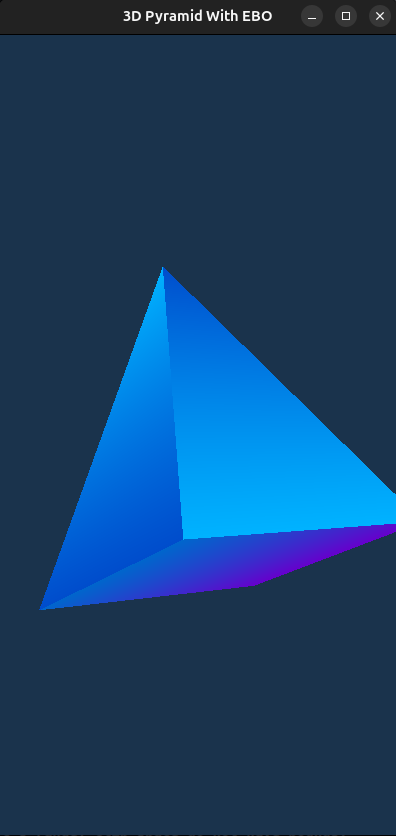
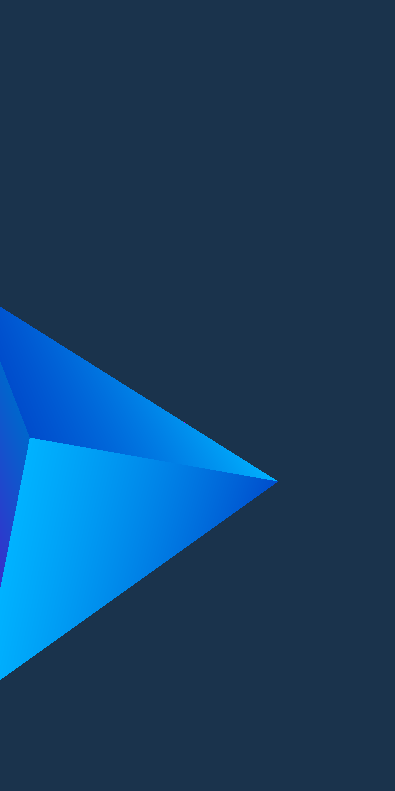
Adds info with rotation examples

diff --git a/Lessons/Lesson_5__GoingTo3D/main.cpp b/Lessons/Lesson_5__GoingTo3D/main.cpp
@@ -162,7 +162,7 @@ int main()
     glfwWindowHint(GLFW_CONTEXT_VERSION_MINOR, OPENGL_MINOR_VERSION);
     glfwWindowHint(GLFW_OPENGL_PROFILE, GLFW_OPENGL_CORE_PROFILE);
 
-    std::string windowName = "3D Pyramid With EBO";
+    std::string windowName = "3D Pyramid";
 
     GLFWwindow* pWindow = glfwCreateWindow(WINDOW_WIDTH, WINDOW_HEIGHT, windowName.c_str(), nullptr, nullptr);
     if (!pWindow)

diff --git a/Lessons/Lesson_5__GoingTo3D/README.md b/Lessons/Lesson_5__GoingTo3D/README.md
@@ -1058,23 +1058,29 @@ $
 $
 
 $
-    x_\text{ndc} = \frac{x_\text{clip}}{w_\text{clip}} \\
-    y_\text{ndc} = \frac{y_\text{clip}}{w_\text{clip}} \\
-    y_\text{ndc} = \frac{z_\text{clip}}{w_\text{clip}} \\
+    \begin{aligned}
+        x_\text{ndc} = \frac{x_\text{clip}}{w_\text{clip}} \\
+        y_\text{ndc} = \frac{y_\text{clip}}{w_\text{clip}} \\
+        y_\text{ndc} = \frac{z_\text{clip}}{w_\text{clip}} \\
+    \end{aligned}
 $
 
 If we replace the $w_\text{clip}$ with $-z_\text{view}$, we get:
 
 $
-    x_\text{ndc} = \frac{x_\text{clip}}{-z_\text{view}} \\
-    y_\text{ndc} = \frac{y_\text{clip}}{-z_\text{view}} \\
-    y_\text{ndc} = \frac{z_\text{clip}}{-z_\text{view}} \\
+    \begin{aligned}
+        x_\text{ndc} = \frac{x_\text{clip}}{-z_\text{view}} \\
+        y_\text{ndc} = \frac{y_\text{clip}}{-z_\text{view}} \\
+        y_\text{ndc} = \frac{z_\text{clip}}{-z_\text{view}} \\
+    \end{aligned}
 $
 
 Does this equation remind you of something? Remember the:
 
 $
-    x' = \frac{x}{z}, \quad y' = \frac{y}{z}
+    \begin{aligned}
+        x' = \frac{x}{z}, \quad y' = \frac{y}{z}
+    \end{aligned}
 $
 
 This is the simplest way to project something onto a 2D screen from 3D world. Doesn't the 3 above equation look similar to this one? That is the essence of the 3-rd row in the projection transformation. You get the divisor for that is projecting x and y coords onto 2D screen.
@@ -1761,6 +1767,91 @@ I hope this image elaborates a little more:
 
 ![camera_rotations_around_different_axes](Assets/camera_rotations_around_different_axes.png)
 
+A question remains about what is a positive and negative rotation? To answer, we have to go back the hand rules. To know what is positive and negative direction for axis, use a left hand rule.
+
+Left hand rule tells us that in order to know what is positive and negative direction, first extend your thumb in the same direction the axis the camera is about to be rotate around, the curl the remaining fingers. The direction of curled fingers is the positive rotation direction on that axis. 
+
+If it happens that the person that is reading this does not have a left hand, I will specify the positive directions in the text format:
+
+* X axis: positive - up, negative - down
+* Y axis: positive - left, negative - right
+* Z axis: positive - tilting head on you left shoulder, negative - tilting your head on the right shoulder
+
+I will give you an actual example of camera rotations in our 3D world with a pyramid. First, let's see how the code would be changed to achieve that:
+
+```C++
+// Camera local angles
+const float cameraRotationAngleX = glm::radians(0.0f);   // pitch
+const float cameraRotationAngleY = glm::radians(0.0f);   // yaw
+const float cameraRotationAngleZ = glm::radians(0.0f);  // roll
+
+// Camera base transform
+const glm::vec3 baseCameraPosition = { 0.0f, 0.0f, 2.5f };
+const glm::vec3 baseCameraForward = { 0.0f, 0.0f, -1.0f };
+const glm::vec3 baseCameraUp = { 0.0f, 1.0f, 0.0f };
+
+// Camera local rotation matrices
+const glm::mat4 cameraRotateX3D = CreateRotationX3D(cameraRotationAngleX);
+const glm::mat4 cameraRotateY3D = CreateRotationY3D(cameraRotationAngleY);
+const glm::mat4 cameraRotateZ3D = CreateRotationZ3D(cameraRotationAngleZ);
+
+// Local camera rotation: X first, then Y, then Z
+const glm::mat4 cameraRotation3D = cameraRotateZ3D * cameraRotateY3D * cameraRotateX3D;
+
+const glm::vec3 cameraForward = glm::normalize(glm::vec3(cameraRotation3D * glm::vec4(baseCameraForward, 0.0f)));
+const glm::vec3 cameraUp = glm::normalize(glm::vec3(cameraRotation3D * glm::vec4(baseCameraUp, 0.0f)));
+
+const glm::mat4 view = glm::lookAt(
+    baseCameraPosition,
+    cameraForward,
+    cameraUp
+);
+```
+
+As you can see, I have removed everything regarding orbital rotations from this example.
+
+If we set all the rotation angles as 0, this is the default view we would get:
+
+![pyramid__x_0__y_0__z_0](Assets/pyramid__x_0__y_0__z_0.png)
+
+Now let's look, how each rotation would change the way we view the pyramid. Again, remember, that all of these rotations do not change the camera position at all. Positions stays constant.
+
+Without further edue:
+
+* X: $30^\circ$, Y: $0^\circ$, Z: $00^\circ$
+
+    ![pyramid__x_30__y_0__z_0](Assets/pyramid__x_30__y_0__z_0.png)
+
+* X: $-30^\circ$, Y: $00^\circ$, Z: $0^\circ$
+
+    ![pyramid__x_-30__y_0__z_0](Assets/pyramid__x_-30__y_0__z_0.png)
+
+* X: $0^\circ$, Y: $30^\circ$, Z: $0^\circ$
+
+    ![pyramid__x_0__y_30__z_0](Assets/pyramid__x_0__y_30__z_0.png)
+
+* X: $0^\circ$, Y: $-30^\circ$, Z: $0^\circ$
+
+    ![pyramid__x_0__y_-30__z_0](Assets/pyramid__x_0__y_-30__z_0.png)
+
+* X: $0^\circ$, Y: $0^\circ$, Z: $90^\circ$
+
+    ![pyramid__x_0__y_0__z_90](Assets/pyramid__x_0__y_0__z_90.png)
+
+* X: $0^\circ$, Y: $0^\circ$, Z: $-90^\circ$
+
+    ![pyramid__x_0__y_0__z_-90](Assets/pyramid__x_0__y_0__z_-90.png)
+
+* X: $30^\circ$, Y: $-30^\circ$, Z: $0^\circ$
+
+    ![pyramid__x_30__y_-30__z_0](Assets/pyramid__x_30__y_-30__z_0.png)
+
+* X: $30^\circ$, Y: $-30^\circ$, Z: $180^\circ$
+
+    ![pyramid__x_30__y_-30__z_180](Assets/pyramid__x_30__y_-30__z_180.png)
+
+As you can see, you can combine the rotations also, pretty easily also. But, as I say over and over again, remember to follow the sequence of rotation matrices multiplication order. If you, from day 1, decided to rotate x the y then z, keep it that way, and do not mix this later on.
+
 #### Camera Rotation Matrices
 
 ```C++
@@ -1866,12 +1957,19 @@ Looks pretty complex, but I still suggest looking at it as separate x, y, z tran
 That is essentially it in terms of camera rotations around itself. Again, remember, that this type of rotation does not affect camera's postion in world space.
 
 
+#### Example of Only a Camera Rotation
+
+```C++
+
+```
+
+
 #### Rotating Camera Around an Object
 
 First, I want to show you what I mean by camera rotating around an object:
 
 ![camera_rotation_around_origin](Assets/camera_rotation_around_origin.png)
 
-The rotation of camera around a point isn't conceptually very different from rotating camera itself. You still have to define angles in all 3 rotations, but now those angles are defined relative to the object you rotate camera around and not to camera itself. Before, angles were defined in camera space, now angles are defined for the world space. So the expression "rotate camera 30 degrees around X axis" means that rotation from the object's perspective. Remember that and if the same sentence comes up, first, ask yourself "is it the camera itself going to be rotated, or is the camera going to be rotated around an object?". 
+The rotation of camera around a point isn't conceptually very different from rotating camera itself. You still have to define angles in all 3 rotations, but now those angles are defined relative to the object you rotate the camera around and not to the camera itself. Before, angles were defined in camera space, now angles are defined for the world space. So the expression "rotate camera 30 degrees around X axis" means that rotation from the object's perspective. Remember that and if the same sentence comes up, first, ask yourself "is it the camera itself going to be rotated, or is the camera going to be rotated around an object?". 
 
 Imagine a simple situation. You stand next to a brand ynew car. In this example the car is the object of reference and your head (i.e. your eyes) is the camera. If the camera would be rotated itself, that would mean that you just turn your head around, if the camera is rotated around an object, that would mean that you go around that car.
